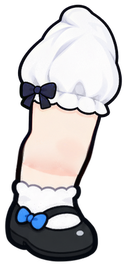
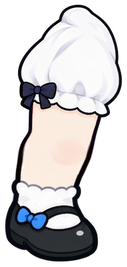
同步了官方 0.2.12 版本的 live2d 形象变化

Changed region(s): [[0.3071, 0.5993, 0.6142, 0.6592], [0.2126, 0.5993, 0.3071, 0.6592]]

diff --git a/figure.js b/figure.js
@@ -77,11 +77,12 @@ function loadImage(url) {
  * pack's two axes; a bare `<scheme>` is the first outfit, the maid dress. `opts.model` (model.json
  * already parsed) and `opts.asset(path)` (a texture's URL) are for pages that bundle the files;
  * `opts.loadImage` is the figure frame's (figure-frame.js), which loads images WebGL may read there.
- * `opts.kit` is the frame's kit, whose `createRig` draws her; without it (a page that imports this file
- * from the package) the package's own kit/rig.js does. A pack installed elsewhere has no ../kit/.
+ * She is drawn by the pack's own `rig.js` (a copy of the app's kit/rig.js as of 0.2.12, the first with
+ * `blend: 'multiply'`), not by the frame's `opts.kit`: the skirt shadow needs that blend mode, and a pack
+ * should draw the same on 0.2.9 as on the newest app. `opts.kit` is accepted and ignored.
  */
 export async function createWhaleFigure(base = new URL('./', import.meta.url), opts = {}) {
-  const createRig = opts.kit?.createRig ?? (await import('./rig.js')).createRig;
+  const createRig = (await import('./rig.js')).createRig;
   const model = opts.model || await (await fetch(new URL('model.json', base))).json();
   const asset = opts.asset || (p => new URL(p, base));
   const load = opts.loadImage || loadImage;
@@ -722,7 +723,7 @@ export async function createWhaleFigure(base = new URL('./', import.meta.url), o
     };
     // the sitting skirt breathes a little at its hem, and its front edge swings with the body
     st.skirtSit = { fn: (u, v) => [skirt * 1.5 * v * v, -Math.max(0, breath) * .4 * v] };
-    st.alpha.skirt = st.alpha.waist_bow_front = 1 - sitIn;
+    st.alpha.skirt = st.alpha.waist_bow_front = st.alpha.skirt_shadow = 1 - sitIn;
     st.alpha.leg_back = st.alpha.leg_front = 1 - smooth(.42, .52, sitK);
     st.alpha.leg_front *= (1 - climbK);
     st.alpha.skirt_sit = st.alpha.waist_bow_sit_front = sitIn;

diff --git a/rig.js b/rig.js
@@ -11,6 +11,7 @@
  *
  * A part may carry a second texture under `<tex>@mix` (same layout): `st.mix` (0..1) crossfades to it,
  * which is how a figure fades from one colour scheme to another.
+ * A part with `blend: 'multiply'` multiplies the colours under it (a shadow layer, see render).
  */
 
 // GLSL ES 1.00 and no vertex array objects: the same code runs on a WebGL 1 context, which some
@@ -223,7 +224,11 @@ export function createRig(canvas, model) {
       gl.uniform1f(loc.uAlpha, alpha);
       const tint = st.tint?.[p.id];
       gl.uniform4f(loc.uTint, ...(tint || [1, 1, 1, 0]));
+      // a `multiply` part darkens what is already drawn under it and leaves the coverage alone,
+      // so a shadow shows only on the parts below it and never over empty canvas
+      if (p.blend === 'multiply') gl.blendFuncSeparate(gl.DST_COLOR, gl.ONE_MINUS_SRC_ALPHA, gl.ZERO, gl.ONE);
       gl.drawElements(gl.TRIANGLES, m.count, gl.UNSIGNED_SHORT, 0);
+      if (p.blend === 'multiply') gl.blendFunc(gl.ONE, gl.ONE_MINUS_SRC_ALPHA);
     }
   }
 

diff --git a/README.md b/README.md
@@ -78,7 +78,7 @@ https://github.com/user-attachments/assets/02bd0c4f-3c94-430f-8670-762fda87d127
 
 - 包 id：`deepseek-whale-plus`
 - 名字：大肥鱼 Plus
-- 形象包的版本：1.1.5（= 上游 0.2.9 的形象包 + 本包自己的飞行/游泳/窗口/作息功能）
+- 形象包的版本：1.1.6（= 上游 0.2.12 的形象包 + 本包自己的飞行/游泳/窗口/作息功能）
 - 依赖：Coopanion 0.2.9 及以上的形象包接口（`manifest: 2`、`api: 2`，窗口矩形随 `needs: ["windows"]` 下发）
 
 ## 同步上游
@@ -86,8 +86,23 @@ https://github.com/user-attachments/assets/02bd0c4f-3c94-430f-8670-762fda87d127
 从内置 `web/whale/` 复制之后，官方每次改形象都会同步进这个包（只搬素材和与动作无关的改动，
 自己的飞行/游泳/窗口代码不动）。
 
-复查方法：把 `web/whale/` 与本包逐目录比一次（`tex` `schemes` `outfits` `feat` `thumbs` `model.json`），
-`figure.js` 因为带了功能补丁不能直接比，改成先看上游两个 tag 的 `diff`，再把新出现的 hunk 手工贴进来。
+复查方法：把 `web/whale/` 与本包逐目录比一次（`tex` `schemes` `outfits` `feat` `thumbs` `model.json`
+，以及 `web/kit/` 的 `rig.js`），`figure.js` 因为带了功能补丁不能直接比，改成先看上游两个 tag 的
+`diff`，再把新出现的 hunk 手工贴进来。
+
+最近一次同步：**0.2.9 → 0.2.12**（2026-10-27），内容是 0.2.12 的「大肥鱼的裙影」（#388）——
+被拎起或走动时，腿上不再有一条跟着腿走的暗带。搬过来的东西：
+
+- 新增部件 `skirt_shadow`（`tex/skirt_shadow.png`、`outfits/crew/skirt_shadow.png`），
+  `parent: "skirt"`、`blend: "multiply"`，坐下时随 `skirt` 一起淡出；
+- 重画 `leg_back` / `leg_front`：本体、`schemes/` 里 7 套配色、`outfits/crew/` 各一对；
+- `model.json` 的两段部件定义（女仆装本体 + 店員装）；
+- `kit/rig.js` 新增 `blend: 'multiply'` 支持（`blendFuncSeparate(DST_COLOR, ONE_MINUS_SRC_ALPHA)`）；
+- `figure.js` 里 `st.alpha.skirt_shadow = 1 - sitIn` 这一处。
+
+**`rig.js` 要跟着同步的理由**：0.2.9–0.2.11 的应用里没有 multiply 混合，裙影会被当成普通贴图叠上去，
+在她轮廓外留下一块灰。所以这个包不再借应用 kit 的 `createRig`，改用自己的 `rig.js`
+（`figure.js` 里那一行），老版本应用上也画得一样。
 
 ## 文件
 
@@ -99,7 +114,7 @@ https://github.com/user-attachments/assets/02bd0c4f-3c94-430f-8670-762fda87d127
 | `perch-physics.js` | 窗台物理（窗口顶边） |
 | `climb-physics.js` | 窗边物理（抱、爬、跟窗移动、边没了就松手） |
 | `window-edges.js` | 把整扇窗裁成能抱的竖边（遮挡、贴边、太短都处理掉） |
-| `rig.js` | 骨骼绘制（`figure.js` 的依赖） |
+| `rig.js` | 骨骼绘制（`figure.js` 的依赖）：应用 0.2.12 的 `web/kit/rig.js`，带 `multiply` 混合 |
 | `model.json` `tex/` `schemes/` `outfits/` `feat/` `thumbs/` | 原形象的素材 |
 
 ## 攀爬参数
@@ -132,10 +147,12 @@ https://github.com/user-attachments/assets/02bd0c4f-3c94-430f-8670-762fda87d127
 - `name` 改成「大肥鱼 Plus」（`Whale Plus`），`about` 补了会飞会游泳会爬窗的说明；
 - `vocab` 从 37 个词扩到 67 个（原 37 + 飞行 13 + 游泳 9 + 窗口顶 1 + 窗口侧边 7）；
 - 新增 `needs: ["windows"]` 与 `moves: [windowtop]`；
-- `figure.js` 改用包内自带的 `body.js` / `rig.js`，不再依赖应用里的 `kit`；
+- `figure.js` 改用包内自带的 `body.js` / `rig.js`，不再依赖应用里的 `kit`（`rig.js` 是 0.2.12 的
+  `web/kit/rig.js`，比老版本应用多一个 `multiply` 混合，裙影靠它）；
 - `figure.js` 补上了游泳 / 飞行 / 攀爬的姿态（`swimK`、`swimPhase`、`climbK`、`GROUP` 里的
   `swimming` / `flying`，手脚和尾巴的动作），不会竖直站着游 / 飞，抱着窗边也不是站姿；
-- 配色（8 套）、服装（3 套）、表情、动作、贴图都和原版一致。
+- 配色（8 套）、服装（3 套）、表情、动作、贴图都和原版一致；0.2.12 的裙影（`skirt_shadow` 部件）
+  也是原样搬过来的。
 
 ## 打盹与作息的修改
 
